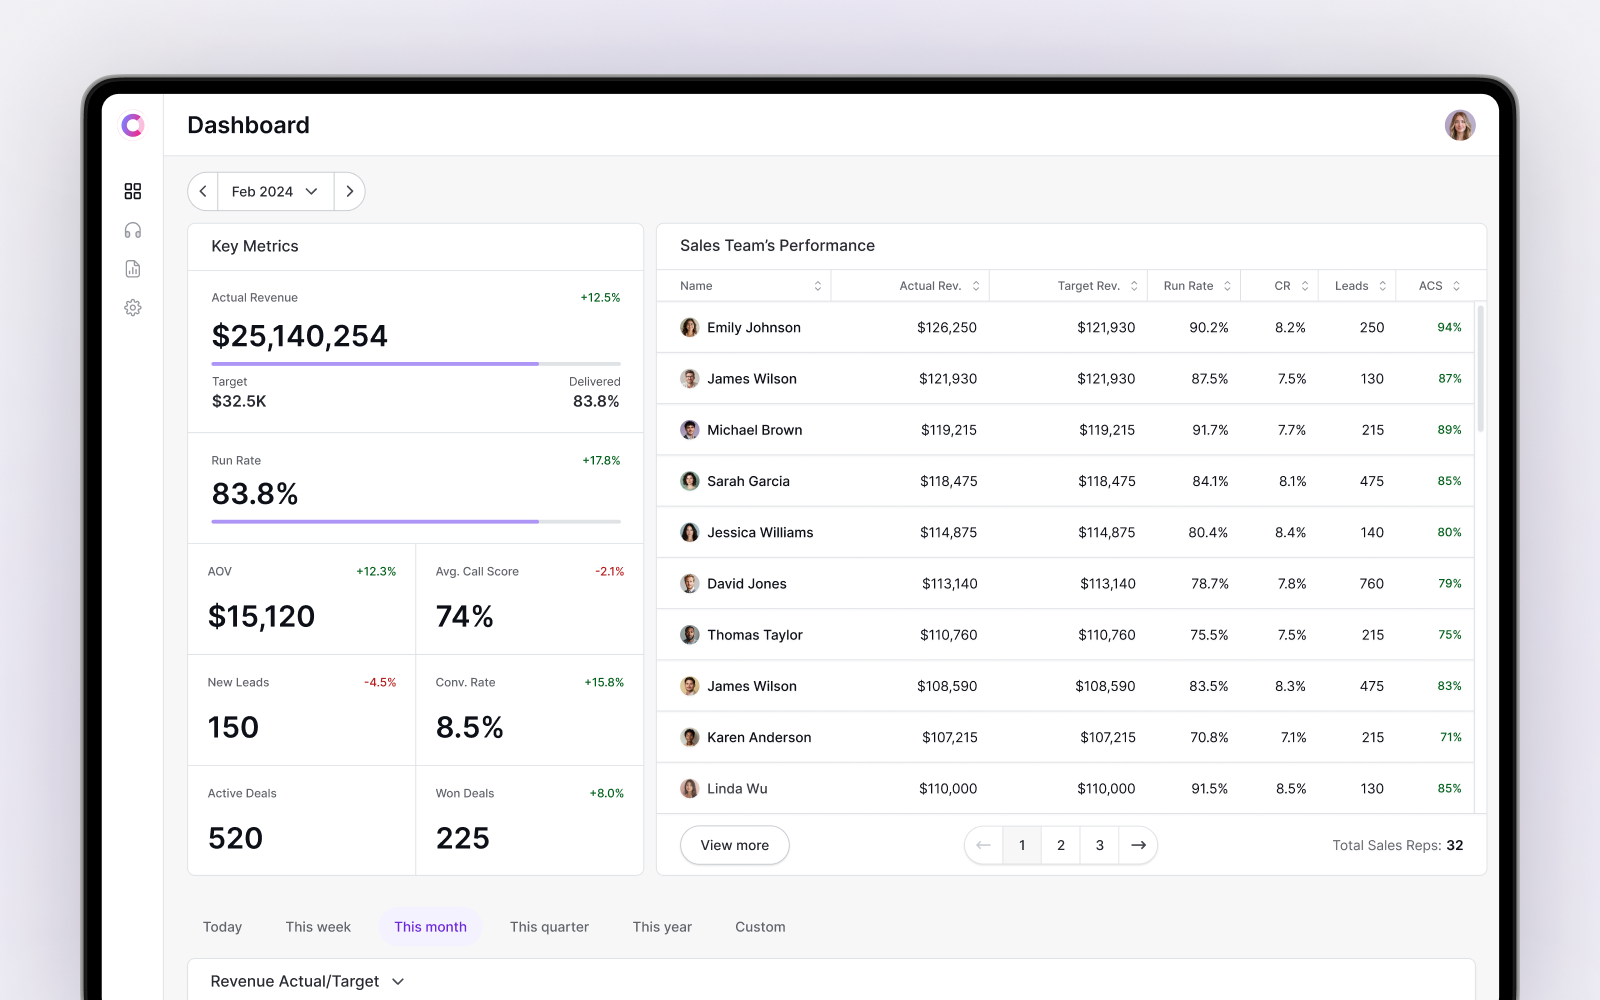
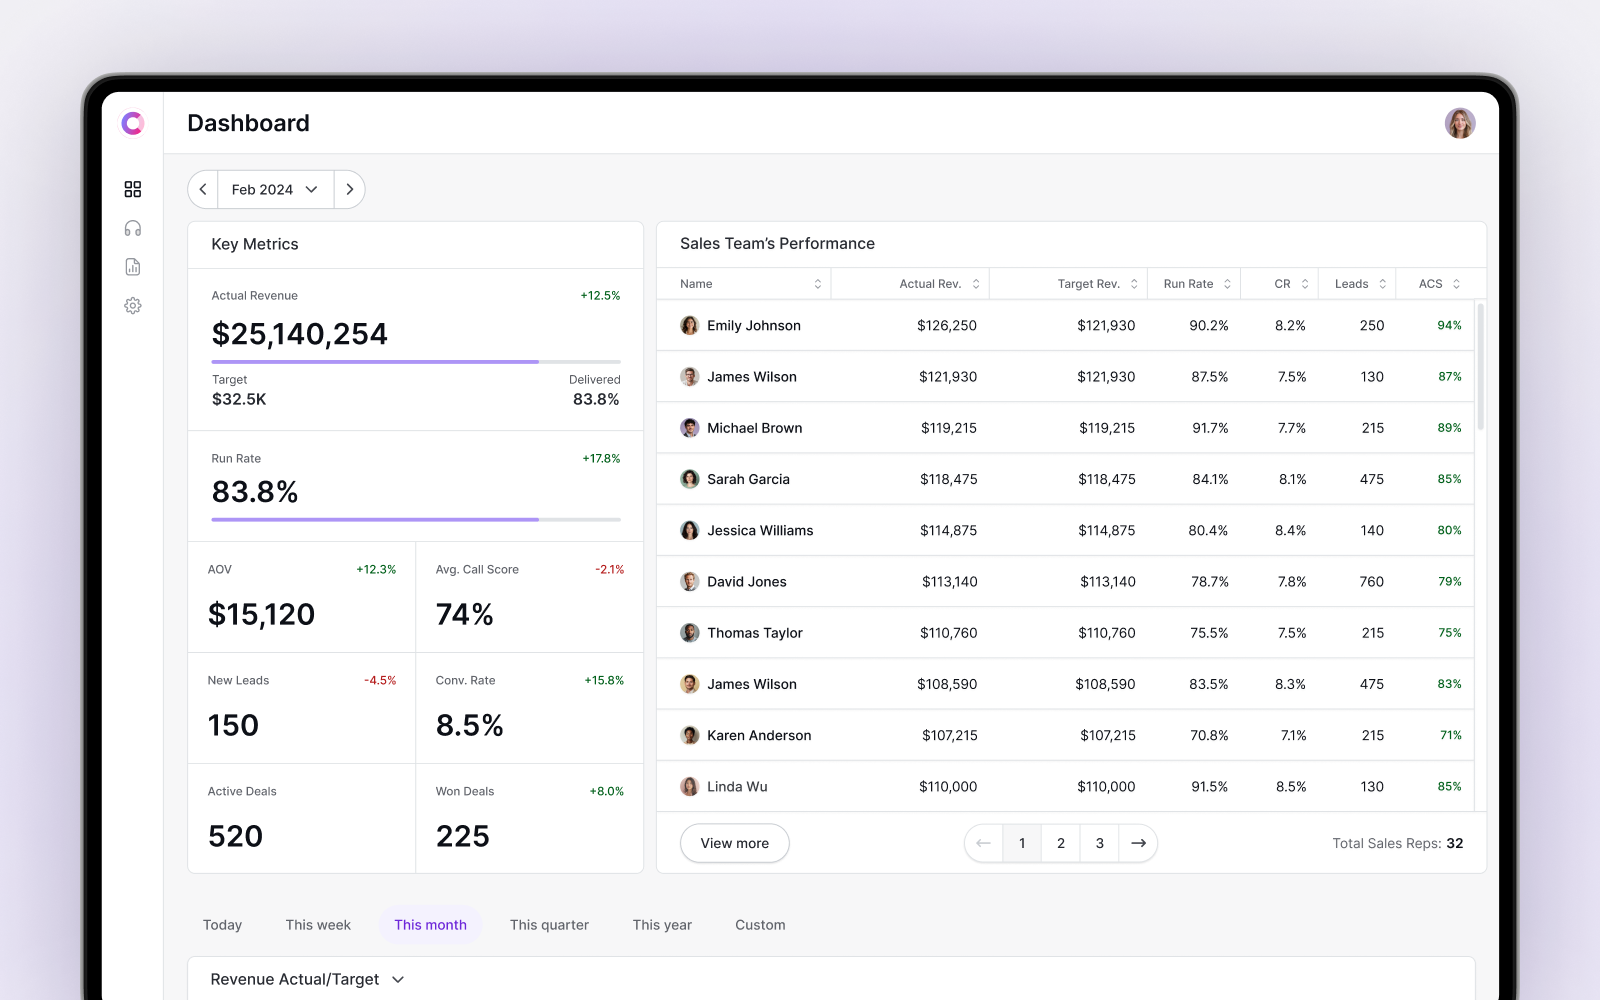
Add themed OilCase X covers and refresh card assets

diff --git a/src/data/cases.ts b/src/data/cases.ts
@@ -286,6 +286,10 @@ export const cases = {
     title: 'OilCase X',
     cardDesc: 'Full redesign and a shared UI kit for a turn-based oil and gas simulator.',
     cardMeta: 'Redesign & UI kit',
+    coverLight: '/covers/oilcase-x/oilcase-x-1-lm.png',
+    coverDark: '/covers/oilcase-x/oilcase-x-1-dm.png',
+    coverLightHover: '/covers/oilcase-x/oilcase-x-1-lm-hover.png',
+    coverDarkHover: '/covers/oilcase-x/oilcase-x-1-dm-hover.png',
     lede: 'A full redesign of a turn-based oil and gas field-management simulator used in EdTech case competitions and B2B training.',
     role: 'UX/UI Designer',
     time: '2021 to 2024',
